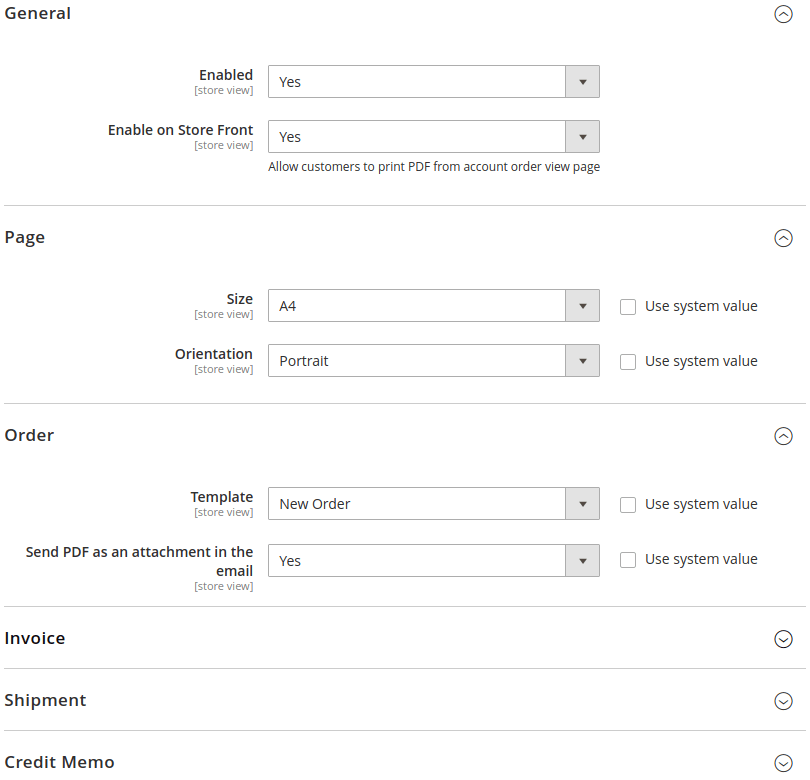
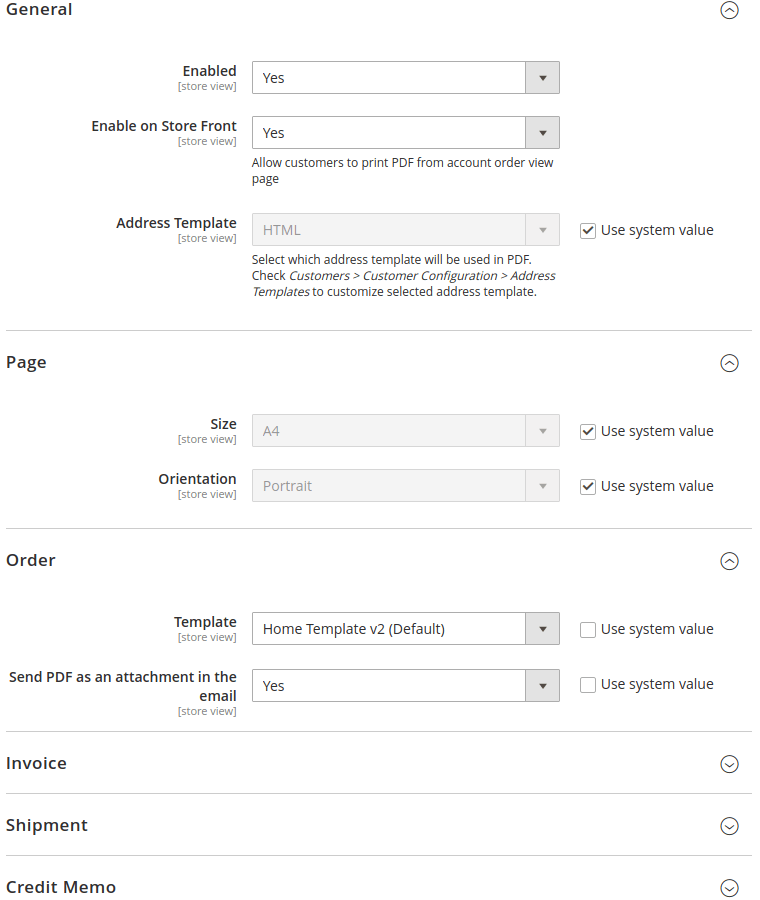
PDF invoice 1.3.0 release changes

diff --git a/m2/extensions/pdf-invoices/use-cases.md b/m2/extensions/pdf-invoices/use-cases.md
@@ -13,12 +13,49 @@ category: PDF Invoices
 * TOC
 {:toc}
 
+### Add PDF attachment to email
+
+![Email Attachment](/images/m2/pdf-invoices/use-cases/email-attachment.png)
+
+To attach PDF to sales emails, enable the setting in the module configuration:
+
+`Stores > Configuration > Swissup > PDF Invoices > Order/Invoice/Shipment/Credit Memo > Send PDF as an attachment in the email`
+
 ### Add download link to email
 
-![PDF grid](/images/m2/pdf-invoices/use-cases/email-download.png)
+> Please note that download link won't work when `Sales > Sales Emails > General Settings > Asynchronous sending` is enabled.
+
+![PDF download link](/images/m2/pdf-invoices/use-cases/email-download.png)
 
 To display download PDF link in emails, edit email template under *Marketing > Email Templates*
 and add the following code:
+
+*For Magento 2.3.6+/2.4.0+:*
+
+ -  for order PDF
+
+    ```txt
+    {% raw %}{{block class="Swissup\PdfInvoice\Block\Email\Documents" area="frontend" order_id=$order_id}}{% endraw %}
+    ```
+
+ -  for invoice PDF
+
+    ```txt
+    {% raw %}{{block class="Swissup\PdfInvoice\Block\Email\Documents" area="frontend" invoice_id=$invoice_id order_id=$order_id}}{% endraw %}
+    ```
+ -  for shipment PDF
+
+    ```txt
+    {% raw %}{{block class="Swissup\PdfInvoice\Block\Email\Documents" area="frontend" shipment_id=$shipment_id order_id=$order_id}}{% endraw %}
+    ```
+
+ -  for credit memo PDF
+
+    ```txt
+    {% raw %}{{block class="Swissup\PdfInvoice\Block\Email\Documents" area="frontend" creditmemo_id=$creditmemo_id order_id=$order_id}}{% endraw %}
+    ```
+
+*For older Magento versions:*
 
  -  for order PDF
 

diff --git a/m2/extensions/pdf-invoices/index.md b/m2/extensions/pdf-invoices/index.md
@@ -11,12 +11,12 @@ category: PDF Invoices
 # PDF Invoices
 
 Magento 2 module for creating custom PDF documents with HTML and CSS. Includes
-ready-to-use template.
+ready-to-use templates.
 
 Admin can download created PDF documents from **Invoice**, **Order**, **Shipment**
 and **Credit Memo** grids and forms. Customers can print PDF from their account
 order view page. Guests can print PDF from *Orders and Returns* page.
-Also you can add *Download PDF* link to the sales emails or send PDF as email attachment.
+Also you can add *Download PDF* link to the sales emails or send PDF as *email attachment*.
 
 {% include gallery.html images=site.data.gallery.m2.pdf-invoices.index class="phone-up-2 tablet-up-3 photoswipe scroll" %}
 
@@ -32,6 +32,7 @@ Also you can add *Download PDF* link to the sales emails or send PDF as email at
    - [Magento 2.2 Compatibility](known-issues/#magento-22-compatibility)
    - [HTML and CSS support](known-issues/#html-and-css-support)
 6. [Use cases](use-cases/)
+   - [Add PDF attachment to email](use-cases/#add-pdf-attachment-to-email)
    - [Add download link to email](use-cases/#add-download-link-to-email)
    - [Using barcodes and QR codes](use-cases/#using-barcodes-and-qr-codes)
    -  [Display product image in items table](use-cases/#display-product-image-in-items-table)

diff --git a/m2/extensions/pdf-invoices/configuration.md b/m2/extensions/pdf-invoices/configuration.md
@@ -17,6 +17,7 @@ Option                | Description
 ----------------------|------------
 Enabled               | Enable/Disable module
 Enable on Store Front | Print PDF documents from account order view and orders and returns pages
+Address Template      | Select template used to display addresses in PDF. Check `Stores > Configuration > Customers > Customer Configuration > Address Templates` to customize selected address template.
 Page Size             | Select page size (default: A4)
 Page Orientation      | Select page orientation (default: portrait)
 Template              | Select template to use for PDF printing/downloading

diff --git a/m2/extensions/pdf-invoices/known-issues.md b/m2/extensions/pdf-invoices/known-issues.md
@@ -21,7 +21,7 @@ It causes missing order items in emails, please check the
 [issue on Github](https://github.com/magento/magento2/issues/26882).
 
 As we use the `$order` variable to generate download PDF link it stopped to work too.
-The fix will be available in Magento 2.4.0. Meanwhile, it can be fixed using
+The issue was fixed in Magento 2.3.6/2.4.0. For older versions, it can be fixed using
 legacy mode for email templates.
 
 When using [Email Templates](/m2/extensions/email-templates/) module, it can be done

diff --git a/m2/extensions/pdf-invoices/changelog.md b/m2/extensions/pdf-invoices/changelog.md
@@ -8,6 +8,15 @@ category: PDF Invoices
 
 # Changelog
 
+### Version 1.3.0
+
+> Nov 5, 2020
+
+ -  Added two new PDF template designs
+ -  Fixed download link in Magento 2.3.6/2.4.0
+ -  Attachment name now includes increment id
+ -  Added configuration option to select address template used in PDF
+
 ### Version 1.2.2
 
 > Oct 19, 2020
